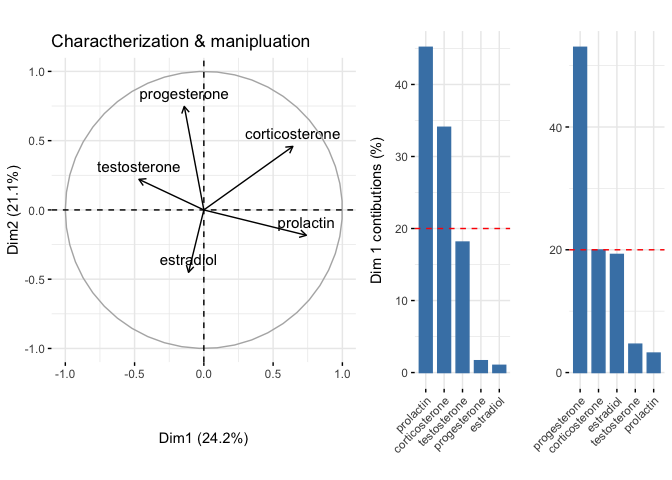
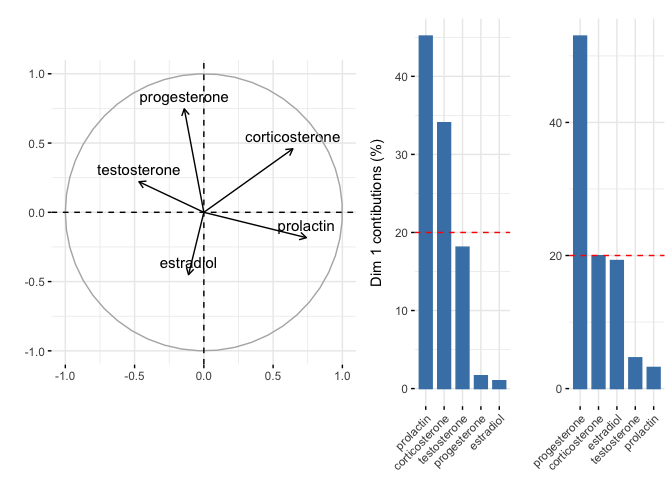
now with dense figures

diff --git a/analysis/07_hormones.md b/analysis/07_hormones.md
@@ -1,13 +1,13 @@
     library(tidyverse)
 
-    ## ── Attaching packages ───── tidyverse 1.3.0 ──
+    ## ── Attaching packages ────────────────────────────────────────────────────────────── tidyverse 1.3.0 ──
 
     ## ✔ ggplot2 3.2.1     ✔ purrr   0.3.3
     ## ✔ tibble  2.1.3     ✔ dplyr   0.8.3
     ## ✔ tidyr   1.0.0     ✔ stringr 1.4.0
     ## ✔ readr   1.3.1     ✔ forcats 0.4.0
 
-    ## ── Conflicts ──────── tidyverse_conflicts() ──
+    ## ── Conflicts ───────────────────────────────────────────────────────────────── tidyverse_conflicts() ──
     ## ✖ dplyr::filter() masks stats::filter()
     ## ✖ dplyr::lag()    masks stats::lag()
 
@@ -437,7 +437,7 @@ do control bird with high prolactin hormone have high PRL expression in the pitu
     printaovtablesex <- function(myhormone, mydescirption){
       
       aov_all = data.frame()
-      for(i in alllevels3){
+      for(i in alllevels){
         df <- hormones %>% filter(hormone == myhormone,
                                 treatment == i) %>% droplevels()
         aovtable <- apa.aov.table(aov(plasma_conc ~ sex, data  = df))
@@ -465,18 +465,18 @@ do control bird with high prolactin hormone have high PRL expression in the pitu
     ## 2       bldg PRL ~ sex 1, 18  4.47 0.049   *
     ## 3        lay PRL ~ sex 1, 18  2.10 0.165    
     ## 4     inc.d3 PRL ~ sex 1, 18  3.93 0.063    
-    ## 5     inc.d9 PRL ~ sex 1, 22  0.31 0.583    
-    ## 6    inc.d17 PRL ~ sex 1, 19  1.07 0.313    
-    ## 7      hatch PRL ~ sex 1, 18  0.20 0.662    
-    ## 8         n5 PRL ~ sex 1, 18  0.03 0.870    
-    ## 9         n9 PRL ~ sex 1, 18  3.00 0.100    
-    ## 10  m.inc.d8 PRL ~ sex 1, 17  3.37 0.084    
+    ## 5   m.inc.d3 PRL ~ sex 1, 18 10.39 0.005   *
+    ## 6     inc.d9 PRL ~ sex 1, 22  0.31 0.583    
+    ## 7   m.inc.d8 PRL ~ sex 1, 17  3.37 0.084    
+    ## 8   m.inc.d9 PRL ~ sex 1, 17  2.12 0.164    
+    ## 9    inc.d17 PRL ~ sex 1, 19  1.07 0.313    
+    ## 10 m.inc.d17 PRL ~ sex 1, 18  0.02 0.901    
     ## 11   prolong PRL ~ sex 1, 18  2.16 0.159    
-    ## 12    extend PRL ~ sex 1, 17  3.38 0.084    
-    ## 13  m.inc.d3 PRL ~ sex 1, 18 10.39 0.005   *
-    ## 14  m.inc.d9 PRL ~ sex 1, 17  2.12 0.164    
-    ## 15 m.inc.d17 PRL ~ sex 1, 18  0.02 0.901    
-    ## 16      m.n2 PRL ~ sex 1, 16  0.73 0.405
+    ## 12     hatch PRL ~ sex 1, 18  0.20 0.662    
+    ## 13      m.n2 PRL ~ sex 1, 16  0.73 0.405    
+    ## 14    extend PRL ~ sex 1, 17  3.38 0.084    
+    ## 15        n5 PRL ~ sex 1, 18  0.03 0.870    
+    ## 16        n9 PRL ~ sex 1, 18  3.00 0.100
 
     hormones %>%
       filter(hormone == "corticosterone") %>%
@@ -554,11 +554,14 @@ do control bird with high prolactin hormone have high PRL expression in the pitu
 ![](../figures/hormones/cort-4.png)
 
     p34 <- plot_grid(p3,p4, rel_widths = c(0.6,0.4), labels = c("c","d"), label_size = 8 )
-
-
-    plot_grid(p12, p34, nrow = 2, rel_heights = c(0.6,0.4))
+    p34
 
 ![](../figures/hormones/cort-5.png)
+
+    allcortplots <- plot_grid(p12, p34, nrow = 2, rel_heights = c(0.6,0.4))
+    allcortplots
+
+![](../figures/hormones/cort-6.png)
 
     hormones %>%
       filter(hormone == "prolactin") %>%
@@ -711,9 +714,17 @@ do control bird with high prolactin hormone have high PRL expression in the pitu
 
     p34 <- plot_grid(p3a , p3b,p4a, p4b, rel_widths = c(0.55,0.55, 0.45,0.45), labels = c("d","e", "f", "g"), label_size = 8, nrow = 1)
 
-    plot_grid(p12, p34, nrow = 2, rel_heights = c(0.5,0.5))
+    allprolactinplots <- plot_grid(p12, p34, nrow = 2, rel_heights = c(0.5,0.5))
+    allprolactinplots
 
 ![](../figures/hormones/PRL-7.png)
+
+figure 2
+--------
+
+    plot_grid(allprolactinplots, allcortplots, nrow = 2)
+
+![](../figures/hormones/figure2-1.png)
 
 prolactin 2
 -----------
@@ -1118,11 +1129,12 @@ estradiol and testosterone
 
 ![](../figures/hormones/testosterone-2.png)
 
-    plot_grid(p1, p2, p3 + labs(y = NULL), p4, p5, p6, p7 + labs(y = NULL), p8, 
+    sexsteroids <- plot_grid(p1, p2, p3 + labs(y = NULL), p4, p5, p6, p7 + labs(y = NULL), p8, 
               p9, p10, p11 + labs(y = NULL), p12, nrow = 3, rel_widths =   c(0.175,0.4,0.35,0.25), align = "hv",
               label_size = 8, labels = c("a", " ", " " , " ",
                                          "b", " ", " " , " ",
                                          "c", " ", " " , " "))
+    sexsteroids
 
 ![](../figures/hormones/supplefig-1.png)
 
@@ -1165,11 +1177,19 @@ pca of hormones
     c2 <- fviz_contrib(res.pca, choice = "var", axes = 2, top = 10) +
       labs(y = "Dim 2 contibutions (%)") + theme(title = element_blank())
 
-    twos <- plot_grid(a2,b2,c2, nrow = 1, rel_widths = c(1,0.425,0.425), align = "hv")
+    twos <- plot_grid(a2 + theme(title = element_blank()),b2,c2, nrow = 1, rel_widths = c(1,0.425,0.425), align = "hv")
 
     plot_grid(ones,twos, nrow = 2)
 
 ![](../figures/hormones/PCA-5.png)
+
+    twos
+
+![](../figures/hormones/PCA-6.png)
+
+    plot_grid(twos,sexsteroids, nrow = 2, rel_heights = c(0.25,0.75), align = "hv")
+
+![](../figures/hormones/figure3-1.png)
 
 smooth funciton
 ===============
